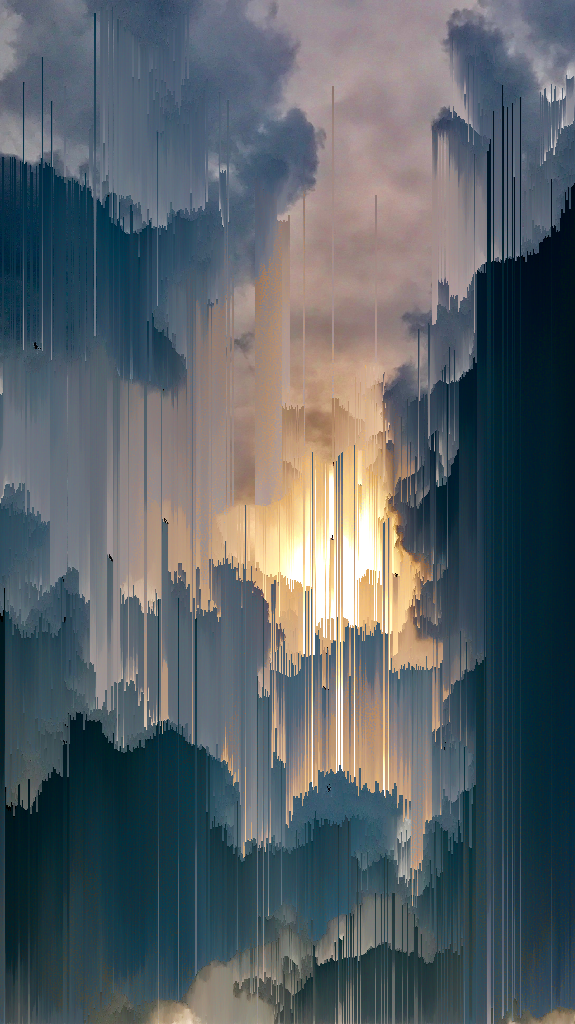
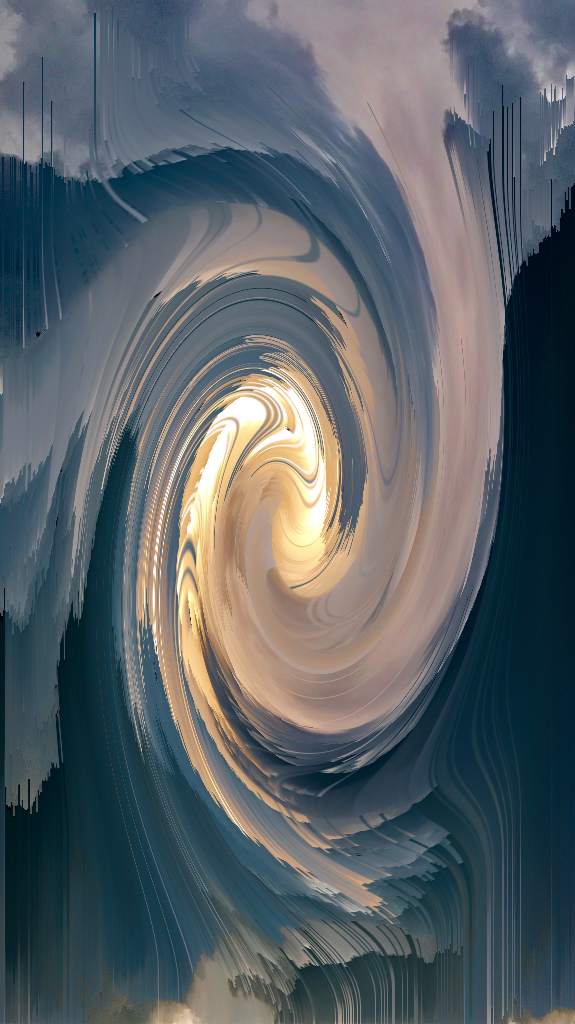
Added swirling functionality.

diff --git a/main.py b/main.py
@@ -1,44 +1,57 @@
-from imagedisplacement import square_rotate, displace_squares, half_back, invert_half
-from pixelate import pixelate_image, pixelate_piece
-from psorting import s_pixels
-from compositefunctions import half_invert_pixel_sort, half_invert_square_displace, half_invert_rotate_square, pixelate
+import imagedisplacement
+import pixelate
+import psorting
 import random
-from unsplash import get_image
-from resize import resize_image
-from twitterbot import tweet_image
+import unsplash
+import resize
+import twitterbot
+import swirl
+
+
+# Image name
+imagename = "image_temp"
 
 # Get an image
-get_image()
+unsplash.get_image(imagename)
 
 # Resize image for twitter restrictions and easier computation
-resize_image()
+resize.resize_image(imagename)
+
+
 
 # Operate on the image using some random actions
-y = random.randint(1, 8)
+y = random.randint(1, 9)
+
+
 if y == 1:
-	half_invert_pixel_sort("image_temp")
-elif y == 2:
-	half_invert_square_displace("image_temp")
-elif y == 3:
-	half_invert_rotate_square("image_temp")
+        imagedisplacement.invert_half(imagename)
+        psorting.s_pixels(imagename)
+elif y == 2:	
+        imagedisplacement.invert_half(imagename)
+        imagedisplacement. displace_squares(imagename)
+elif y == 3:	
+        imagedisplacement.invert_half(imagename)
+        imagedisplacement.square_rotate(imagename)
 elif y == 4:
-	pixelate("image_temp")
+	pixelate.pixelate_image(imagename)
 elif y == 5:
-	displace_squares("image_temp")
-elif y == 6:
-	s_pixels("image_temp")
-elif y == 7:
-	s_pixels("image_temp")
+	imagedisplacement.displace_squares(imagename)
+elif y == 6 or y == 7 or y == 8: 
+	psorting.s_pixels(imagename)
 else:
-	s_pixels("image_temp")
+        swirl.swirl_image(-360, imagename)
+
+
 
 # Gets the Current Number
 f = open("number.txt", "r")
 number = int(f.read())
 f.close()
 
+print(str(number))
+
 # Tweet the image
-tweet_image(number)
+twitterbot.tweet_image(number)
 
 # Increments number
 number = number + 1
@@ -48,3 +61,4 @@ f.close()
 
 # Print done just for fun
 print("done")
+

diff --git a/resize.py b/resize.py
@@ -2,10 +2,10 @@ from PIL import Image
 import PIL
 
 # Resizes images to the rescritions of the twitter API for media upload
-def resize_image():
+def resize_image(imgtitle):
     fixed_width = 1280
     fixed_height = 1024
-    image = Image.open("./working/image_temp.png")
+    image = Image.open("./working/" + imgtitle + ".png")
     height = image.size[1]
     width = image.size[0]
 
@@ -13,10 +13,10 @@ def resize_image():
         height_percent = (fixed_height / float(image.size[1]))
         width_size = int((float(image.size[0]) * float(height_percent)))
         image = image.resize((width_size, fixed_height), PIL.Image.NEAREST)
-        image.save("./working/image_temp.png")
+        image.save("./working/" + imgtitle + ".png")
 
     else:
         width_percent = (fixed_width / float(image.size[0]))
         height_size = int((float(image.size[1]) * float(width_percent)))
         image = image.resize((fixed_width, height_size), PIL.Image.NEAREST)
-        image.save("./working/image_temp.png")
+        image.save("./working/" + imgtitle + ".png")

diff --git a/unsplash.py b/unsplash.py
@@ -5,7 +5,7 @@ import os
 
 
 # Gets a random image using random word in below array
-def get_image():
+def get_image(imgtitle):
 
     cars = ["sky", "cloud", "background"]
 
@@ -24,7 +24,7 @@ def get_image():
     print(photo.id, photo.link_download)
 
     response = requests.get(photo.link_download, allow_redirects=True)
-    open('./working/image_temp.png', 'wb').write(response.content)
+    open('./working/' + imgtitle + '.png', 'wb').write(response.content)
 
 
 

diff --git a/testing_file.py b/testing_file.py
@@ -1,0 +1,24 @@
+from imagedisplacement import square_rotate, displace_squares, half_back, invert_half
+from pixelate import pixelate_image, pixelate_piece
+from psorting import s_pixels
+import random
+from unsplash import get_image
+from resize import resize_image
+from twitterbot import tweet_image
+import swirl
+
+
+
+
+get_image()
+
+
+resize_image()
+
+
+
+#Write Algorithm to Test Here
+swirl.swirl_image(-360, "image_temp")
+
+
+print("done")

diff --git a/swirl.py b/swirl.py
@@ -1,0 +1,9 @@
+from wand.image import Image
+
+
+def swirl_image(deg, imgtitle):
+    with Image(filename = "./working/" + imgtitle + ".png") as img:
+        img.swirl(degree = deg)
+        img.save(filename = "./working/" + imgtitle + ".png")
+
+
